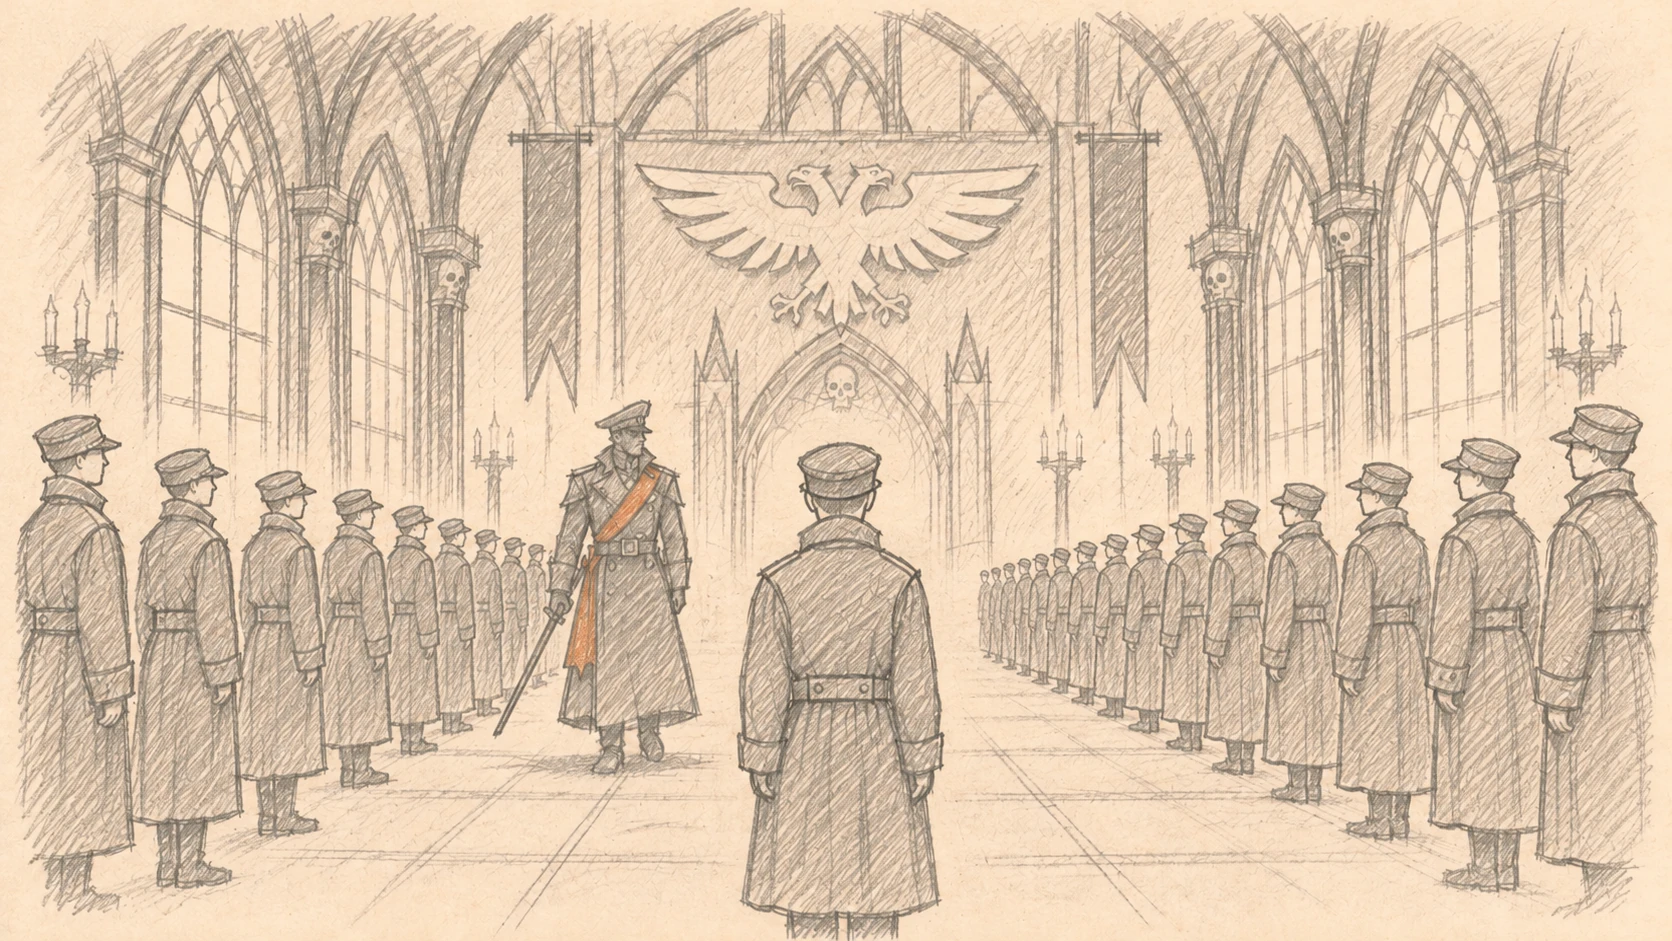
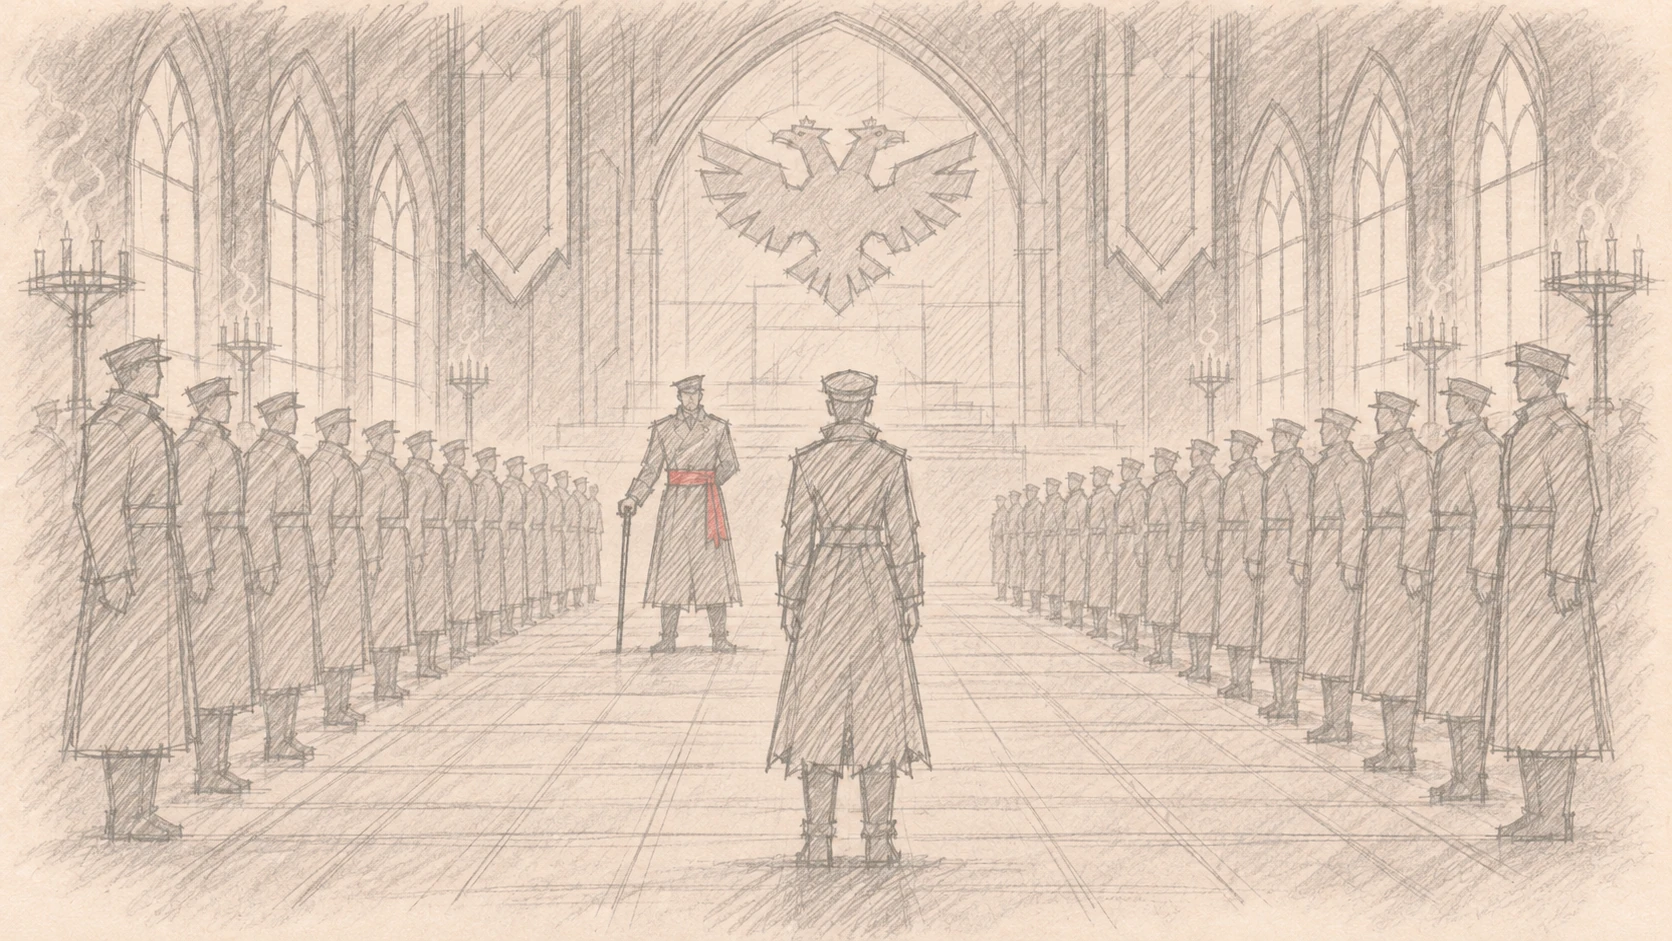
Анкета без детей: пять новых артов, Схола без сирот и подкидышей
Новые арты: psyker_1, psyker_2, psyker_4, komissar_1, ispovednik_2 — все
персонажи взрослые. Комиссар приходит в Схолу взрослым (сын солдата или
из рядовых), штурмовик — выпускник Схолы, а не сирота.

Claude-Session: https://claude.ai/code/session_014wrCPAnioZw7gVdZtg2usq

diff --git a/anketa/README.md b/anketa/README.md
@@ -15,4 +15,6 @@
 
 Тексты вопросов и ответов — `anketa_data.json` (по одному прегену на класс; второй род добавится при сборке в модуль). Для каждого ответа: `line` — карточка от первого лица, `chron` — предложение в летопись; на четвёртом слайде `side` (`h` — Ересь, `l` — Свет) и `q` — фраза героя на суде.
 
+На артах нет детей: все персонажи взрослые, включая кадетов Схолы и Иону, ученика исповедника. Псайкер и на «Начале», и на «Тайне» уже взрослый.
+
 В анкете арт «рисуется на глазах»: сначала проступают контуры, потом штриховка от светлых тонов к тёмным, в конце красный акцент.
